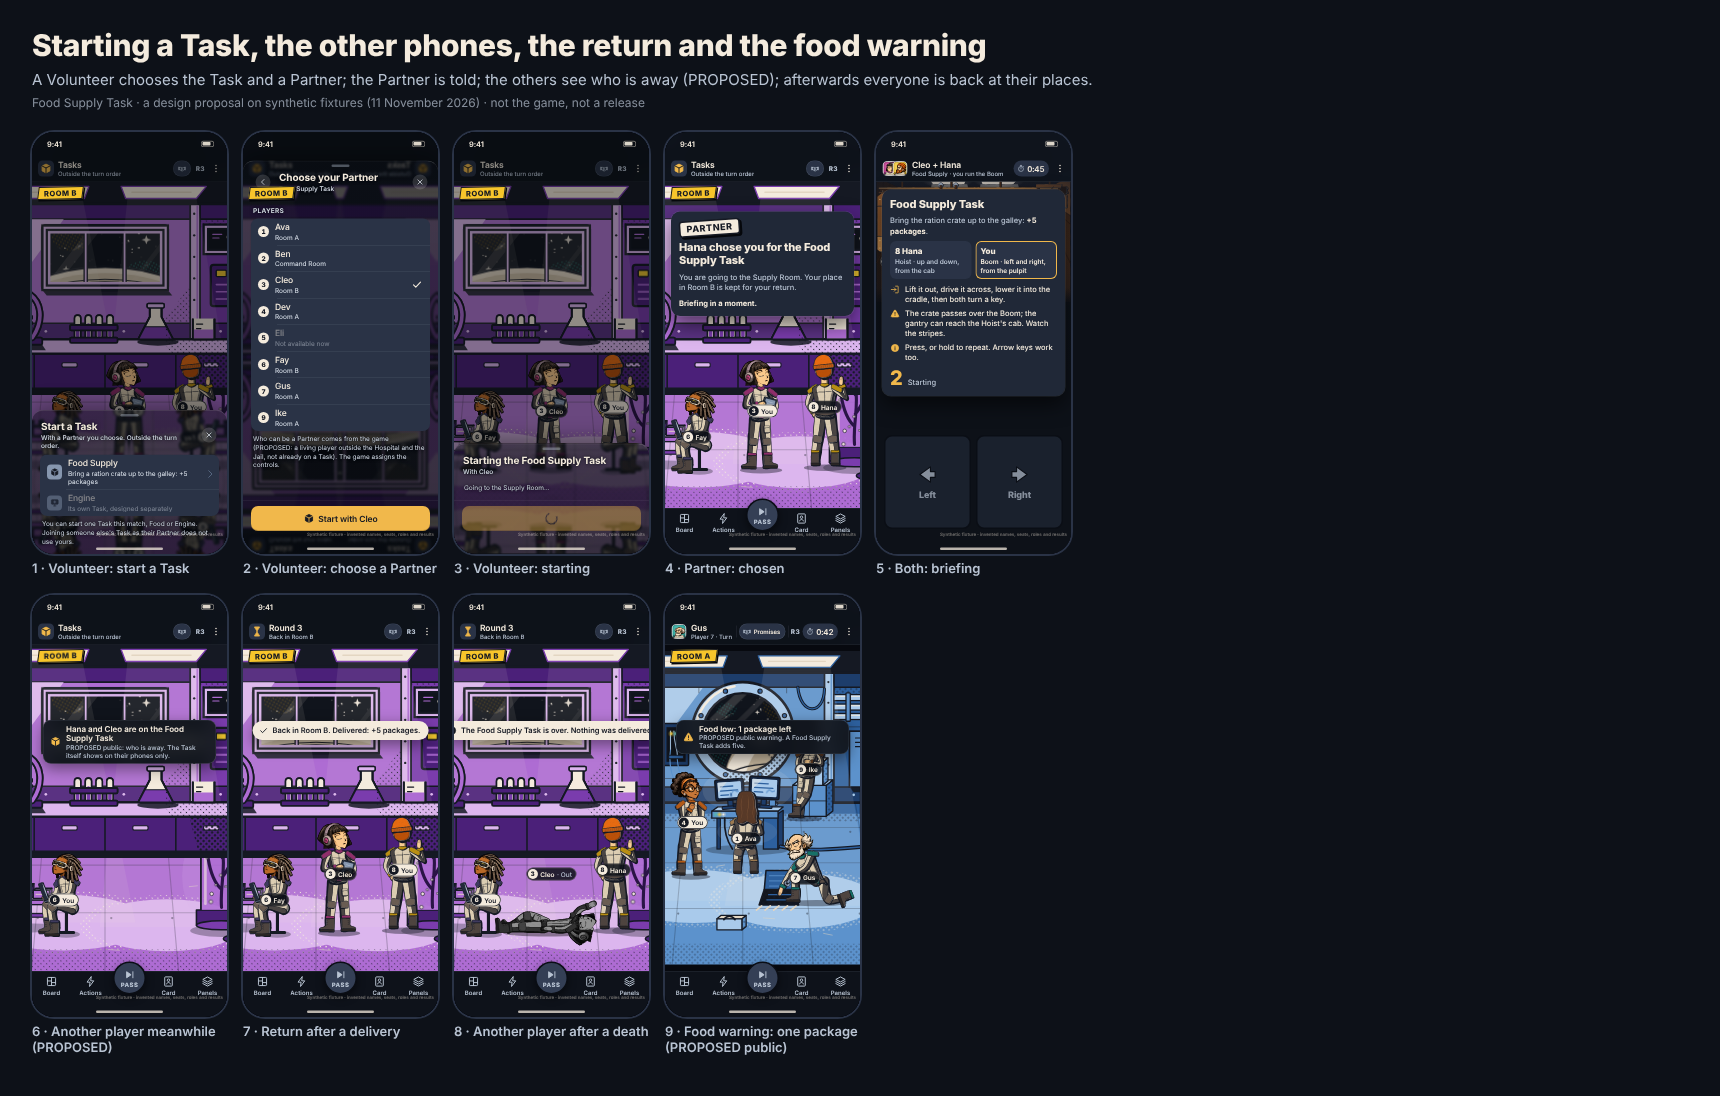
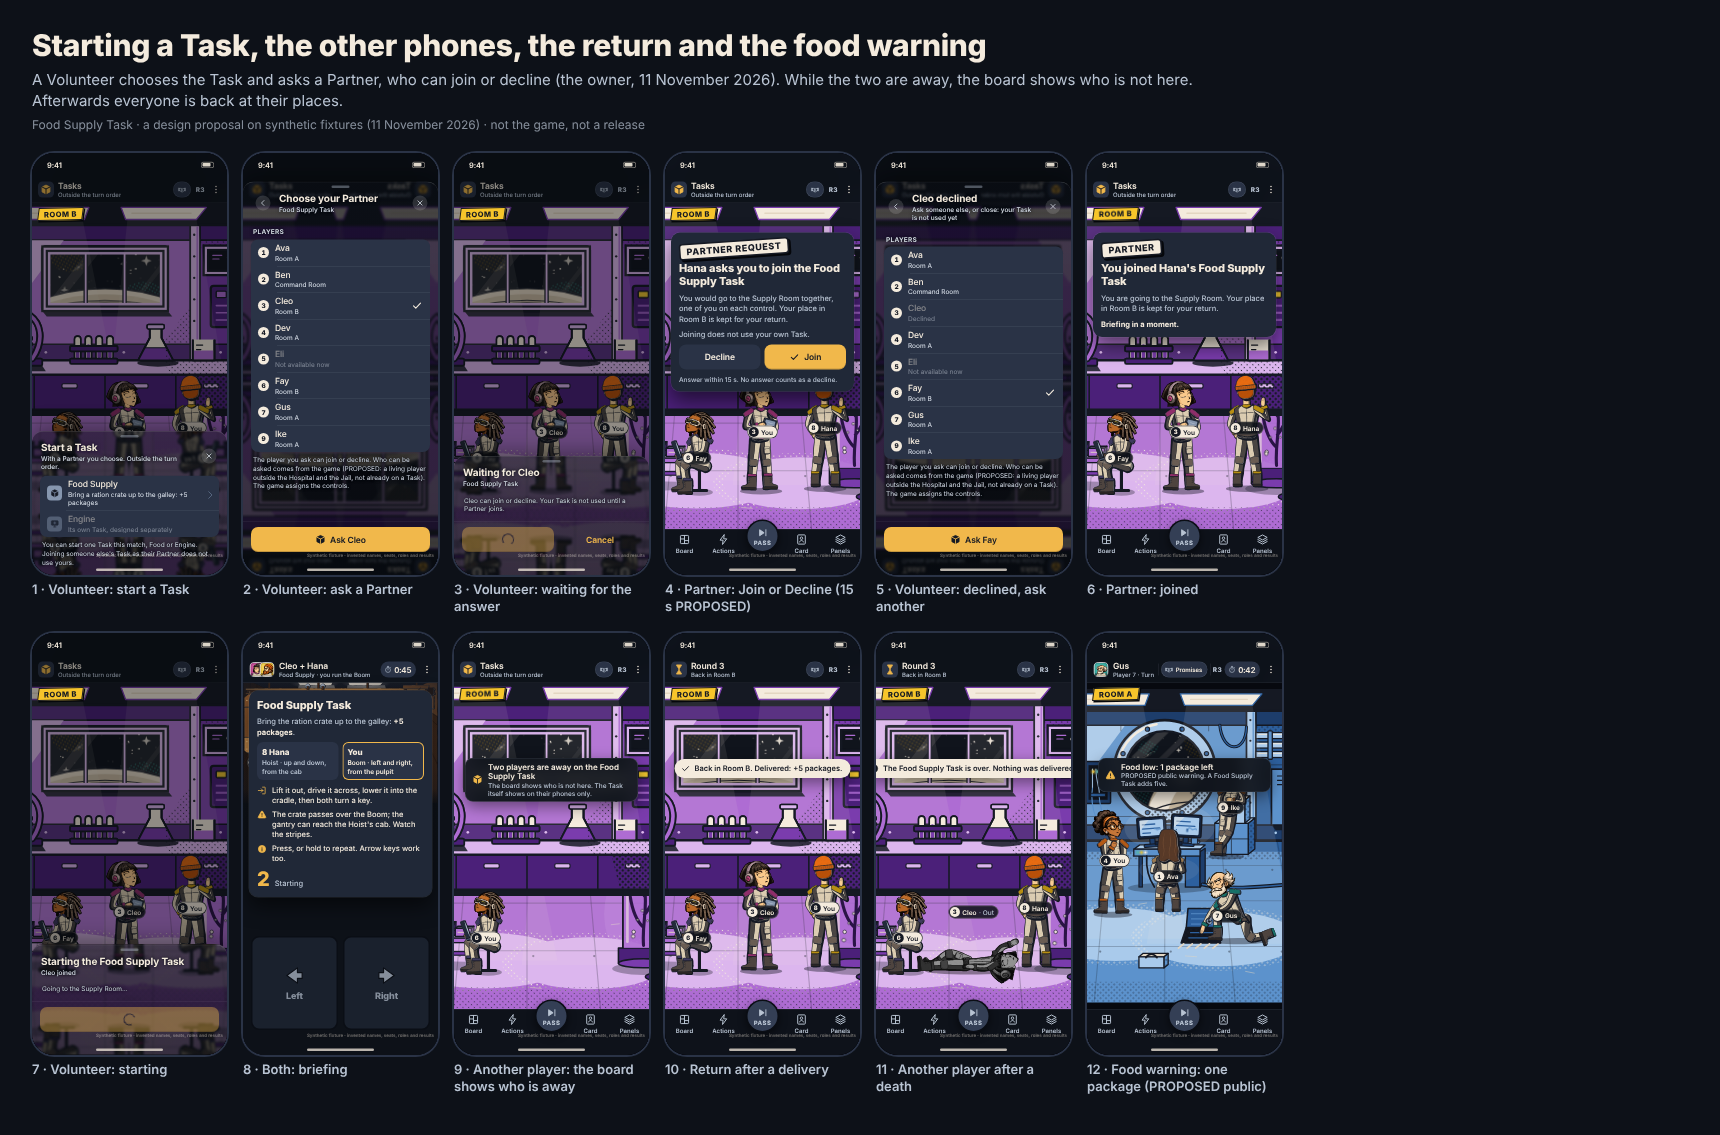
Food Supply: the owner's answers (who is away shows on the board; a Partner can decline)
The owner answered two of Designer's questions on 11 November 2026:
"other player can check on board who is not here so they can understand
who went for task" and "yes they can decline".

- While a Task runs, other boards show the two places empty; the banner
  says only that two players are away, naming no one. Rule conflict 4
  (deducible attribution) is settled by this decision.
- The Partner request now has Decline and Join, with a time to answer
  (PROPOSED 15 s, no answer declines). The Volunteer waits, can withdraw,
  and after a decline asks someone else; their Task is used only when a
  Partner joins (PROPOSED). Proposed TASK_ASK, TASK_ANSWER and
  TASK_ASK_WITHDRAW in the handoff.
- The flow sheet shows the new states; the room label no longer sits on
  a tall sheet's header.
- The rules record, open items, doc, decision record and tests follow.
  The attack opportunity's reset and whether a blocked attack spends it
  stay open.

Claude-Session: https://claude.ai/code/session_014QoCS4hvgzC5aZhp5aGjyH

diff --git a/design/food-supply/phone.css b/design/food-supply/phone.css
@@ -65,6 +65,9 @@
 .fs-roles b { font: 800 1rem/1.2 var(--font-ui); color: var(--text-primary); }
 
 .fs-banner { position: absolute; left: 12px; right: 12px; z-index: 30; }
+/* The Partner request: Decline and Join side by side, Join last (the thumb's side); they stack when the words need it. */
+.fs-answer { display: grid; grid-template-columns: repeat(auto-fit, minmax(7.5rem, 1fr)); gap: 8px; }
+.fs-card p.fs-timer { font-size: 0.8125rem; }
 .fs-art .tag { position: absolute; transform: translate(-50%, 0); z-index: 5; }
 .fs-art .tag[data-anchor="start"] { transform: none; }
 /* A card longer than the screen scrolls; its last lines fade to say there is more. */

diff --git a/design/food-supply/review.html b/design/food-supply/review.html
@@ -52,7 +52,7 @@
   body[data-sheet="large"] { width: 1400px; }
   body[data-sheet="large"] .grid { grid-template-columns: repeat(4, auto); }
   .phone figcaption.measure { margin-top: 2px; font-weight: 500; color: var(--accent); }
-  body[data-sheet="flow"] .grid { grid-template-columns: repeat(5, auto); }
+  body[data-sheet="flow"] .grid { grid-template-columns: repeat(6, auto); }
   .parts { display: grid; grid-template-columns: repeat(4, 1fr); gap: 16px; }
   .part { margin: 0; padding: 10px; border-radius: 12px; background: var(--panel); }
   .part.wide { grid-column: span 4; }

diff --git a/docs/design/food-supply.md b/docs/design/food-supply.md
@@ -77,12 +77,13 @@ Each participant's phone shows the same view of the Supply Room, then their own 
 ![Starting a Task, the other phones, the return and the food warning](../../design/food-supply/review/flow.png)
 
 1. **The Volunteer** opens Tasks, outside the turn order, and chooses Food Supply. The sheet says each player can start one Task per match, Food or Engine, and that joining as a Partner does not use theirs.
-2. **Chooses a Partner** from the players (PROPOSED: a living player outside the Hospital and the Jail, not on a Task).
-3. **The Partner is told** they were chosen and that their place is kept. PROPOSED: no decline.
-4. **Both are briefed** (PROPOSED 4 s), then play (PROPOSED 45 s).
-5. **The return**: each is back at their place; a participant killed on the Task lies there, Eliminated, as the board draws any death.
-6. **Other players** never see the Supply Room. PROPOSED: a banner that the two are away on the Task, and the result as the stock shows it.
-7. **The food warning**: "Food low: 1 package left" (PROPOSED: on every phone).
+2. **Asks a Partner** from the players (PROPOSED: a living player outside the Hospital and the Jail, not on a Task), then waits; Cancel withdraws the request.
+3. **The Partner can join or decline** (the owner's decision). The request says who asks, that their place is kept, and that joining does not use their own Task. PROPOSED: 15 s to answer, and no answer is a decline.
+4. **After a decline**, the Volunteer sees who declined and asks someone else, or closes. The Volunteer's Task is used only when a Partner joins (PROPOSED). The request and its answer stay between the two (PROPOSED).
+5. **Both are briefed** (PROPOSED 4 s), then play (PROPOSED 45 s).
+6. **Other players** never see the Supply Room. Their board shows the two places empty, so anyone can tell who went (the owner's decision); a banner says only that two players are away on the Food Supply Task. PROPOSED: the result shows only as the food stock.
+7. **The return**: each is back at their place; a participant killed on the Task lies there, Eliminated, as the board draws any death.
+8. **The food warning**: "Food low: 1 package left" (PROPOSED: on every phone).
 
 ## Storyboards
 
@@ -153,11 +154,12 @@ The design's mechanics model, `design/food-supply/task.mjs`, is a reference, not
 - **Clock**: the briefing's end, the deadline (lost: time), the grace (cancelled: disconnect).
 - **Connection**: out of contact, the Task runs on through the grace (PROPOSED 8 s); back in time, nothing paused; out longer, cancelled. A death that resolved first stands.
 - **Command**: `TASK_MOVE { taskId, dir, shown, repeat }` (a proposal for the shared contract; Integration owns `packages/contracts/`). The answer is the new state with its events to both participants; a refusal to the presser only.
+- **Asking a Partner** (proposals, around the owner's decision that a Partner can decline): `TASK_ASK { kind, partner }` from the Volunteer, `TASK_ANSWER { askId, join }` from the asked player within the answer time, `TASK_ASK_WITHDRAW { askId }`; events `TASK_ASKED` to the asked player, `TASK_DECLINED` to the Volunteer (a decline or no answer), `TASK_STARTED` to both. The Volunteer's initiation is spent on `TASK_STARTED` (PROPOSED). Details in the handoff (`controls.ask`).
 
 ## For Game Balance
 
 - **The survivor asymmetry** (conflict 2): only the Boom can kill and still deliver.
-- **Timing**, all PROPOSED: 4 s briefing, 45 s deadline (the route itself is eleven presses, a few seconds of play), 8 s grace, 300 ms between presses.
+- **Timing**, all PROPOSED: 15 s for a Partner to answer, 4 s briefing, 45 s deadline (the route itself is eleven presses, a few seconds of play), 8 s grace, 300 ms between presses.
 - **The food economy**: five packages, five per delivery, one dose per player at each Eating step, one Task initiation per player per match. How often Eating comes decides whether Tasks can keep up; with the stock short, the Eating order decides who goes to the Hospital.
 - **Trust windows**: the Boom is exposed for one step (the crossing); the Hoist whenever the gantry can reach the cab, and most after docking, when the ram also delivers.
 
@@ -166,7 +168,7 @@ The design's mechanics model, `design/food-supply/task.mjs`, is a reference, not
 | Who | Sees |
 | --- | --- |
 | The two participants | The whole Supply Room: every move and bump, both warnings, both keys, the time, each other's alive or offline state, and a STOPPED alike with no reason. Never an attack opportunity, Protection, or the other's refused presses |
-| Every other player | Never the Supply Room. PROPOSED: that two named players are away on the Food Supply Task, and the result as the food stock shows it (delivered or not); not how it went |
+| Every other player | Never the Supply Room. Who is away, from the board: the two places are empty (the owner's decision); the banner names no one. PROPOSED: the result only as the food stock shows it (delivered or not), never how it went. PROPOSED: not who was asked, or who declined |
 | A death | Shown on the return as any death: Eliminated at the participant's previous place. No phone says who, how, or that the Task did it |
 | Protection | Never shown |
 | The food stock | PROPOSED public: the count (the ship-life food capsules) and the warning at one package |
@@ -211,7 +213,7 @@ Four tensions inside the confirmed rules, each with a solution that stays inside
 1. **No escape, and a disconnect cancels.** If a disconnect cancelled at once, switching off the network would escape an attack. **Solution:** the server judges a disconnect only after a grace (PROPOSED 8 s) in which the Task runs on and an attack resolves; a death before the cancellation stands. *Left open:* a participant can still end a Task they dislike by staying offline; whether that should cost anything.
 2. **Both can betray, and a survivor completes only from the correct position.** The drop puts the crate onto the Boom, out of the cradle, so a Hoist who drops can never complete; only the Boom's ram after docking kills and still delivers. **Solution:** the server assigns the controls at random (PROPOSED), so neither player picks the stronger seat; both phones show both risks equally; the two-key send makes docking a visible standoff. *Left open:* accepting the asymmetry, for Game Balance and the owner.
 3. **Protection applies, and Protection is not disclosed.** An attacker who knows they still had their opportunity learns from a failed attack that the victim is Protected. **Solution:** one STOPPED, identical for Protection and for a spent opportunity, with no reason on either phone; the victim cannot tell which; no one else learns anything. The attacker's inference cannot be removed without a third cause for a stop, which the rules do not have. *Left open:* the owner confirms that inference is acceptable.
-4. **No automatic attribution, and the return shows the dead.** With two participants, the survivor is the only possible killer to anyone who knows who went. **Solution:** no phone states a killer, a cause or a Task death. Whether others learn who is away (PROPOSED: yes, as their places are empty) is the one lever. *Left open:* keeping the pair private would need the board to hide the two absences.
+4. **No automatic attribution, and the return shows the dead.** With two participants, the survivor is the only possible killer to anyone who knows who went. **Solution:** no phone states a killer, a cause or a Task death. *Settled:* the owner decided that other players can see on the board who is away, so after a death everyone can work out the survivor. That is accepted, and nothing states it.
 
 ## Open items
 
@@ -220,13 +222,13 @@ Four tensions inside the confirmed rules, each with a solution that stays inside
 | The attack opportunity's reset scope across repeated Task participation (not chosen anywhere in the design) | The owner |
 | Whether a blocked attack spends the opportunity (PROPOSED: yes) | The owner |
 | Whether one dose is one package (PROPOSED: yes) | The owner |
-| When the initiation is spent (PROPOSED: on the start; a Task cancelled by the Partner's disconnect gives it back, by the Volunteer's own does not) | The owner |
+| When the initiation is spent (PROPOSED: when a Partner joins and the Task starts, so a decline does not spend it; a Task cancelled by the Partner's disconnect gives it back, by the Volunteer's own does not) | The owner |
 | Whether a deliberate disconnect costs anything (conflict 1) | The owner |
-| Partner eligibility and whether a Partner may decline (PROPOSED: living, outside the Hospital and the Jail, not on a Task; no decline) | The owner |
+| Who can be asked as a Partner (PROPOSED: living, outside the Hospital and the Jail, not on a Task), the time to answer (PROPOSED: 15 s, no answer declines), and asking the same player again after a decline (PROPOSED: not for this start). That a Partner can decline is decided | The owner |
 | Who runs which control (PROPOSED: the server at random; conflict 2) | The owner |
-| Whether others see who is away and the result (PROPOSED: yes; conflict 4) | The owner |
+| Whether others learn the result (PROPOSED: only as the food stock shows it). That they can see who is away is decided | The owner |
 | When a Task may start, and whether two may run at once | The owner, Backend |
-| The timing (4 s, 45 s, 8 s, 300 ms) | Game Balance |
+| The timing (15 s, 4 s, 45 s, 8 s, 300 ms) | Game Balance |
 | The survivor asymmetry and the food economy | Game Balance |
 | The Eating step's place and order | The owner, Game Balance |
 | Deliberate attacks only (PROPOSED) | The owner, Backend |

diff --git a/docs/design/owner-decisions.md b/docs/design/owner-decisions.md
@@ -22,8 +22,17 @@ The owner's messages are quoted as written.
 
 The owner also asked for low puzzle difficulty with coordination and trust as the challenge, Machinarium as inspiration for expressive machinery, and Mothership's own look; and for genuine rule conflicts to be highlighted separately, with solutions inside the confirmed rules ([four of them](food-supply.md#genuine-rule-conflicts)).
 
+**The same day, the owner answered two of Designer's open questions:**
+
+| What the owner said | What it decides | Where |
+| --- | --- | --- |
+| "other player can check on board who is not here so they can understand who went for task" | Who is away on a Task is public, through the board: the two participants' places are empty while they are away. The banner on other phones names no one. This settles rule conflict 4: after a death, everyone can work out the survivor, and no phone states it | [food-supply.md](food-supply.md#visibility); the flow sheet |
+| "yes they can decline" | The asked Partner can decline. The request has Decline and Join; after a decline, the Volunteer asks someone else or closes. The time to answer, and whether a decline spends the Volunteer's Task, stay PROPOSED (15 s, no answer declines; the Task is used only when a Partner joins) | [food-supply.md](food-supply.md#the-phones); the flow sheet |
+
+The owner asked what the other two questions mean (the attack opportunity's reset across repeated Tasks, and whether a blocked attack uses it up); Designer has explained them, and both remain open.
+
 **What it does not decide:**
-- **The proposals.** Everything marked PROPOSED in the design (timings, the grace, random roles, the Partner's eligibility, what other players see, deliberate attacks only) waits for the owner. The [open items](food-supply.md#open-items) list them, with the attack opportunity's reset scope, which the design leaves unchosen as asked.
+- **The proposals.** Everything marked PROPOSED in the design (timings, the grace, random roles, the Partner's eligibility and time to answer, whether others learn the result, deliberate attacks only) waits for the owner. The [open items](food-supply.md#open-items) list them, with the attack opportunity's reset scope, which the design leaves unchosen as asked.
 - **The game.** No rule, contract, engine or ruleset changes here. Backend implements the rules, Integration owns the contract, and a ruleset version adopts the Task; until then nothing is playable.
 - **The owner's detailed handoff file.** `docs/design/food-supply-requirements-2026-11-11.md` and its concept images were on the owner's computer, not in the repository; the design follows the highlights above and will be reconciled with that file.
 
